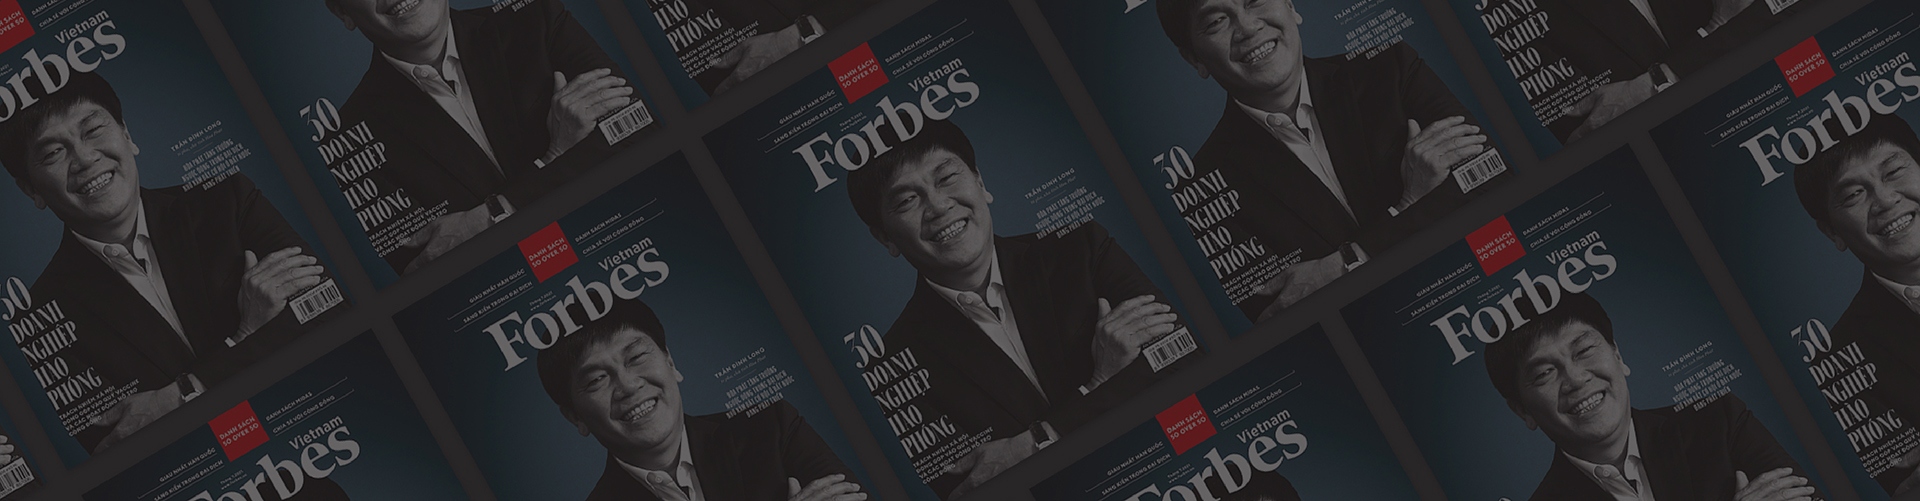
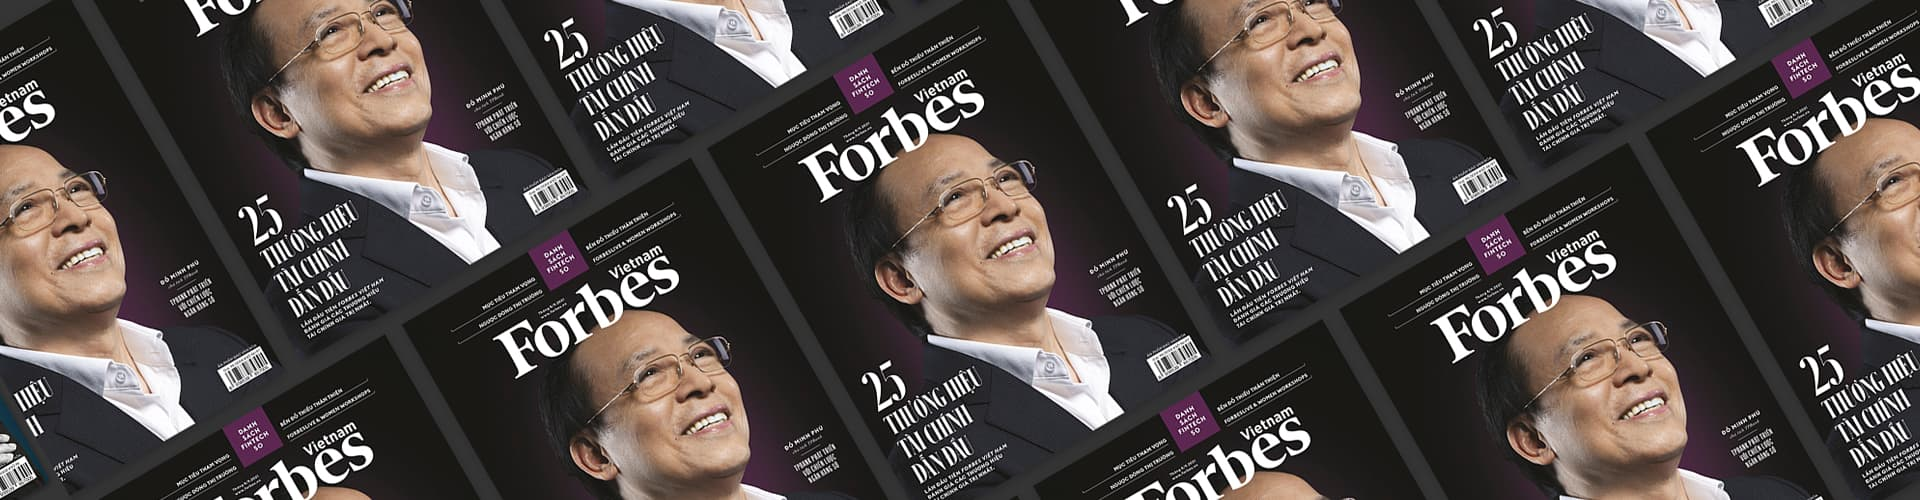
updatte tháng 9

diff --git a/forbes-vn/index.html b/forbes-vn/index.html
@@ -84,7 +84,7 @@
 
 	<div class="container-fluid background_header">
 		<h1 class="center-header"><i>Danh sách</i><br>
-			30 doanh nghiệp hào phóng nhất<br /> trong dịch bệnh</h1>
+			25 thương hiệu tài chính dẫn đầu</h1>
 		<!-- <div class="row">
 			<div class="col-sm-12">
 				
@@ -101,40 +101,40 @@
 		<div class="row justify-content-md-center">
 			<div class="col-sm-12 col-md-10 description">
 				<p>
-					Trong số báo này, <i>Forbes Việt Nam</i> ghi nhận những đóng góp của cộng đồng doanh nghiệp với
-					<strong>Danh sách
-						30 doanh nghiệp hào phóng trong đại dịch</strong>. Danh sách ghi nhận được từ các tập đoàn kinh
-					tế chủ lực
-					nhà nước, các doanh nghiệp tư nhân và cả các nhà hảo tâm cá nhân. Mục tiêu của danh sách không phải
-					xếp hạng các đóng góp vì không thể thống kê chính xác đầy đủ từng con số, chúng tôi muốn khắc họa
-					những nghĩa cử và việc làm ý nghĩa cho xã hội. Forbes Việt Nam hi vọng những hoạt động vì cộng đồng
-					được ghi nhận sẽ khuyến khích và truyền cảm hứng đến nhiều doanh nghiệp và cá nhân cùng chung sức.
-					Trong thời điểm khó khăn, mọi nghĩa cử hào phóng đều rất quý giá.
+					Trong lần đầu tiên Forbes Việt Nam đánh giá các thương hiệu tài chính giá trị nhất, chúng tôi nhận
+					thấy giá trị một số ngân hàng Việt Nam đã vượt hoặc tiệm cận các đối thủ mạnh trong khu vực. Chẳng
+					hạn vào trung tuần tháng 7, vốn hóa của Vietcombank đã vượt Commercial Siam Bank (SCB) - ngân hàng
+					lớn nhất Thái Lan và trên đường tiệm cận với định chế tài chính lớn nhất Malaysia là Malayan Banking
+					Berhad (Maybank). So sánh với hai đối thủ, quy mô tổng tài sản Vietcombank vẫn còn khoảng cách nhưng
+					được thị trường, trong đó có định chế tài chính nước ngoài định giá cao dựa trên dư địa tăng trưởng
+					của thị trường tài chính, sức mạnh nội tại và tốc độ tăng trưởng của doanh nghiệp.
 				</p>
 				<p>
-					Bên cạnh đó có các câu chuyện kinh doanh thành công, những sáng kiến phòng chống dịch bệnh, các hoạt
-					động vì cộng đồng của các doanh nghiệp với mong muốn giữ được góc nhìn lạc quan và hi vọng giữa diễn
-					biến khó lường của dịch bệnh.
+					Bên cạnh đó có các câu chuyện kinh doanh, thị trường nổi bật:
 				</p>
 				<ul style="text-align: left;">
-					<li><strong>Chia sẻ với cộng đồng</strong>: Ông Lê Văn Kiểm, một trong những doanh nhân thâm niên
-						nhất Việt Nam vẫn còn hoạt động kinh doanh ủng hộ 500 tỉ đồng cho quỹ Vaccine. </li>
-					<li><strong>Phượng Hoàng Xanh vào tâm dịch</strong>: Phenikaa tạo ra robot khử khuẩn và bản đồ dịch
-						tễ giúp chống dịch COVID-19 hiệu quả. </li>
-					<li><strong>Truy vết thần tốc</strong>: Ứng dụng Bluezone của Bkav giúp xác định nhanh nhóm đối
-						tượng có nguy cơ lây nhiễm. </li>
-					<li><strong>Kích hoạt y tế từ xa</strong>: Các giải pháp công nghệ cho lĩnh vực y tế do Viettel phát
-						triển đã được kích hoạt mạnh mẽ trong đại dịch COVID-19. </li>
-					<li><strong>Truyền thông khẩn cấp giữa đại dịch</strong>: Gần 15 tỉ tin nhắn từ Zalo bộ Y tế gửi đi
-						đã lan tỏa thông tin chính thống trong cộng đồng, giúp phòng chống dịch bệnh. </li>
-					<li><strong>Sáng kiến trong đại dịch</strong>, sáng kiến nào có thể ở lại khi dịch bệnh qua đi?</li>
-					<li><strong>Hành trình máy thở</strong>: Nhà phát minh và doanh nhân Việt kiều Trần Ngọc Phúc để lại
-						dấu ấn riêng tại Nhật Bản và hướng về quê hương khi đại dịch bùng phát</li>
+					<li><strong>Theo làn sóng số</strong>: Đỗ Minh Phú rót vốn vực dậy TPBank, đưa ngân hàng này thay đổi diện mạo
+					<li><strong>Mục tiêu tham vọng</strong>: Techcom Securities hoạt động hiệu quả nhất khối các công ty chứng khoán nhờ
+						thống lĩnh thị trường môi giới trái phiếu</li>
+					<li><strong>Ngược dòng thị trường:</strong> PYN Elite Fund, quỹ đầu tư Phần Lan và những lần ngược dòng thị trường
+						của nhà quản lý quỹ cá tính Petri Deryng </li>
+					<li><strong>Nóng lên từng ngày:</strong> Dù hành lang pháp lý chưa được thống nhất, thị trường cho vay ngang hàng
+						(P2P lending) đang nóng lên khi nhu cầu thị trường lớn hơn, đặc biệt khi đại dịch COVID-19 đang
+						hoành hành.</li>
+					<li><strong>Người xây ngân hàng:</strong> Chartsiri Sophonpanich, chủ tịch thế hệ thứ ba của ngân hàng Bangkok, tạo
+						nên tiền đề nhằm tăng cường đáng kể sự hiện diện của ngân hàng này trong khu vực. </li>
+					<li><strong>Đầu tư lớn:</strong>  Công ty gia đình ít người biết của Clay Christensen và một nhà đầu tư nữ nổi tiếng
+						tại SoftBank là những người thắng lớn trong thương vụ IPO của Coupang, phiên bản Amazon của Hàn
+						Quốc. </li>
+					<li><strong>Đảo chiều:</strong> Tài sản của những người giàu nhất Malaysia phục hồi sau hai năm sụt giảm</li>
+					<li><strong>Có gan làm giàu:</strong> Trong 10 năm qua, nhà đầu tư quỹ đầu cơ Adam Wyden đã giúp các nhà đầu tư của
+						mình giàu có hơn gấp 11 lần và anh cũng kiếm được 100 triệu đô la Mỹ bằng cách khám phá ra những
+						“viên ngọc” cổ phiếu mang giá trị tiềm ẩn.</li>
+					<li><strong>Chuyển làn:</strong> Tỉ phú xe điện William Li đang tìm cách đẩy mạnh phát triển ở nước ngoài. Bước đi
+						đầu tiên: Thâm nhập thị trường châu Âu thông qua Na Uy.</li>
+					<li><strong>Hội thảo phụ nữ và Forbes Vietnam Live:</strong> Forbes Việt Nam tổ chức các hội thảo trực tuyến trong suốt thời gian giản cách để kết nối sau hơn với cộng đồng bạn đọc.</li>
 				</ul>
-				<p>
-					Ngoài ra còn có các danh sách: Danh sách các nhà đầu mạo hiểm thành công nhất, danh sách giàu nhất
-					Hàn Quốc và lần đầu tiên giới thiệu danh sách 50 phụ nữ trên 50 tuổi thành công nhất nước Mỹ.
-				</p>
+			
 			</div>
 		</div>
 		<div class="row justify-content-md-center">
@@ -167,10 +167,10 @@
 						</a>
 					</div>
 					<div class="event-description">
-						<a href="https://events.forbes.vn/"  class="title-event-section">
+						<a href="https://events.forbes.vn/" class="title-event-section">
 							<h3>Diễn đàn<br /> Kinh doanh 2021 </h3>
 
-							<p class="title-sub"><i>Dự kiến Tháng 9.2021, Gem Center</i></p>
+							<p class="title-sub"><i>Dự kiến Tháng 12.2021, Gem Center</i></p>
 						</a>
 						<p>Diễn đàn quy tụ các nhà hoạch định chính sách, các chuyên gia, các lãnh đạo cấp cao của các
 							doanh nghiệp hàng đầu trong nước và quốc tế cùng thảo luận về các vấn đề kinh tế chuyên sâu.
